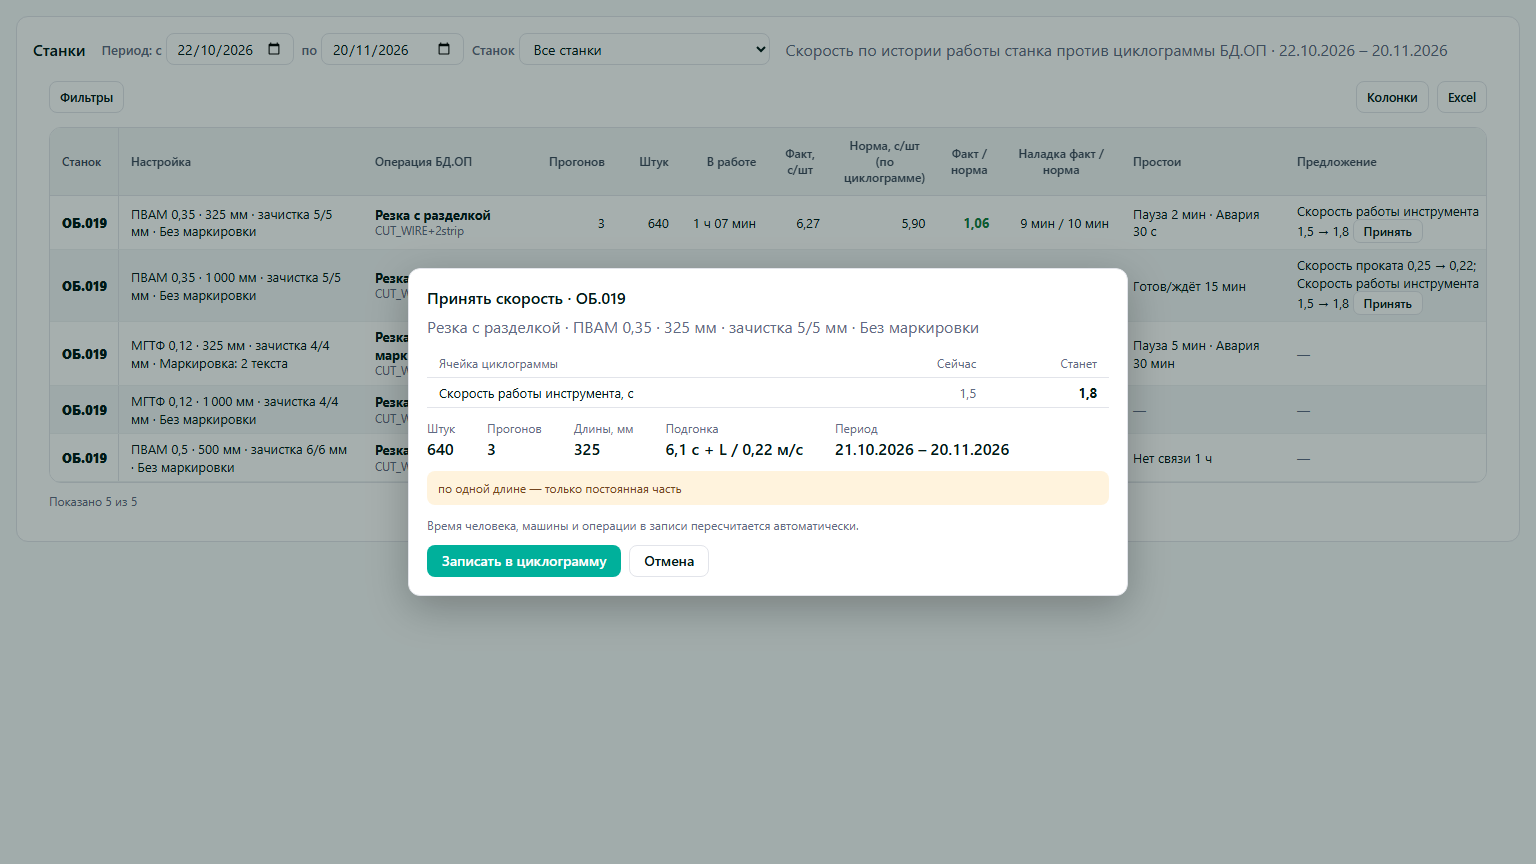
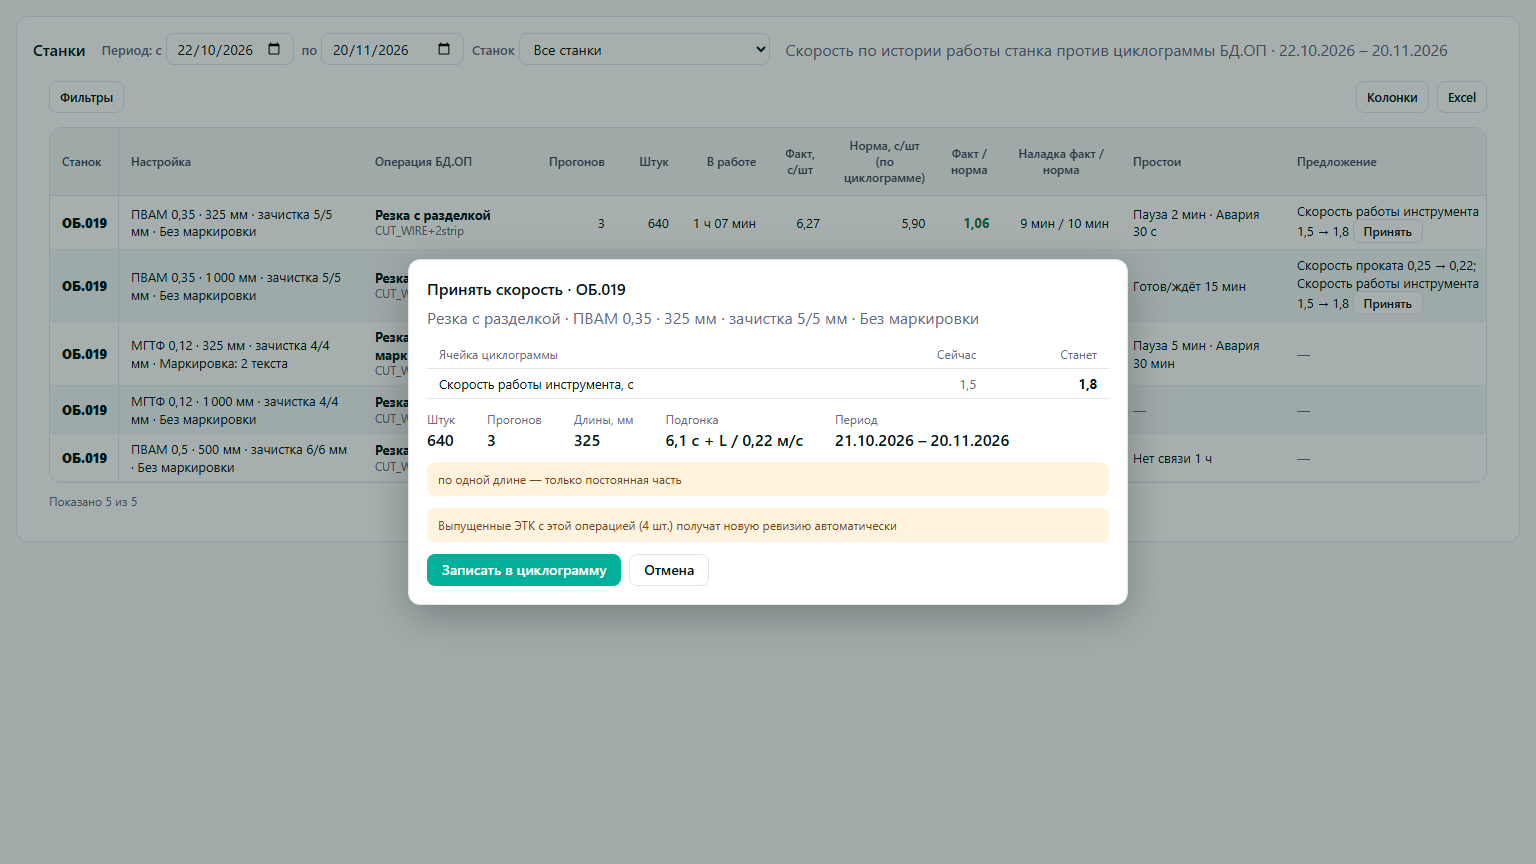
[production] История скорости станков (S3): правки по ревью

Changed region(s): [[0.25, 0.2812, 0.75, 0.7188], [0.6875, 0.4062, 0.7188, 0.4688]]

diff --git a/frontend/src/MachineSpeedReport.test.tsx b/frontend/src/MachineSpeedReport.test.tsx
@@ -41,6 +41,7 @@ const SUGGESTED = row({
       { field: "tool_time", label: "Скорость работы инструмента, с", old: "1.5", new: "1.8" }],
     evidence: { pieces: 640, runs: 3, lengths: ["325", "1000"], fit: "6,1 с + L / 0,22 м/с", since: "2026-10-21", until: "2026-11-20" },
     note: "по одной длине — только постоянная часть",
+    etk_note: "Выпущенные ЭТК: 3 шт. — ревизия будет создана автоматически",
   },
 });
 
@@ -84,8 +85,25 @@ it("shows the empty hint when there is no history", async () => {
   expect(await screen.findByText("Нет истории станков за период — она пишется, когда ОБ.019 на связи.")).toBeInTheDocument();
 });
 
+it("shows the fallback ЭТК note when the server sends none", async () => {
+  const bare = row({ suggestion: { ...SUGGESTED.suggestion!, etk_note: undefined } });
+  serve(() => json(report({ rows: [bare] })));
+  render(<MachineSpeedReport />);
+  const table = await screen.findByRole("region", { name: "Станки: скорость" });
+  fireEvent.click(within(table).getByRole("button", { name: "Принять" }));
+  expect(await screen.findByRole("dialog")).toHaveTextContent("Выпущенные ЭТК с этой операцией получат новую ревизию автоматически");
+});
+
+it("renders nothing on 403 instead of a red banner", async () => {
+  const calls = serve(() => json({ detail: "Нет доступа" }, 403));
+  const { container } = render(<MachineSpeedReport />);
+  await waitFor(() => expect(calls).toHaveLength(1));
+  await waitFor(() => expect(container).toBeEmptyDOMElement());
+  expect(screen.queryByRole("alert")).toBeNull();
+});
+
 it("shows an error banner when loading fails", async () => {
-  serve(() => json({ detail: "Нет доступа к станкам" }, 403));
+  serve(() => json({ detail: "Станки недоступны" }, 500));
   render(<MachineSpeedReport />);
   expect(await screen.findByRole("alert")).toBeInTheDocument();
 });
@@ -137,6 +155,7 @@ it("accepts a suggestion and reloads the report", async () => {
   expect(within(window).getByText("0,22")).toBeInTheDocument();
   expect(window).toHaveTextContent("6,1 с + L / 0,22 м/с");
   expect(window).toHaveTextContent("по одной длине — только постоянная часть");
+  expect(window).toHaveTextContent("Выпущенные ЭТК: 3 шт. — ревизия будет создана автоматически");
 
   fireEvent.click(within(window).getByRole("button", { name: "Записать в циклограмму" }));
 
@@ -153,14 +172,14 @@ it("accepts a suggestion and reloads the report", async () => {
 it("says the data changed on 409 and offers a refresh", async () => {
   let loads = 0;
   serve((path, init) => {
-    if (init?.method === "POST") return json({ detail: "stale" }, 409);
+    if (init?.method === "POST") return json({ detail: "Предложение изменилось — обновите отчёт" }, 409);
     loads += 1;
     return json(report());
   });
   const window = await openAccept();
   fireEvent.click(within(window).getByRole("button", { name: "Записать в циклограмму" }));
 
-  expect(await within(window).findByRole("alert")).toHaveTextContent("Данные изменились, обновите");
+  expect(await within(window).findByRole("alert")).toHaveTextContent("Предложение изменилось — обновите отчёт");
   fireEvent.click(within(window).getByRole("button", { name: "Обновить отчёт" }));
   await waitFor(() => expect(loads).toBe(2));
   expect(screen.queryByRole("dialog")).toBeNull();

diff --git a/frontend/src/MachineSpeedReport.tsx b/frontend/src/MachineSpeedReport.tsx
@@ -13,6 +13,7 @@ import "./normFact.css";
  *  против циклограммы БД.ОП, наладка, простои и предложение новой скорости. «Принять» пишет ячейки циклограммы. */
 
 const DAYS = 30;
+const ETK_NOTE_FALLBACK = "Выпущенные ЭТК с этой операцией получат новую ревизию автоматически";
 
 function isoDay(date: Date): string {
   return `${date.getFullYear()}-${String(date.getMonth() + 1).padStart(2, "0")}-${String(date.getDate()).padStart(2, "0")}`;
@@ -83,6 +84,7 @@ export function MachineSpeedReport() {
   const [machines, setMachines] = useState<MachineRef[]>([]);
   const [report, setReport] = useState<Report | null>(null);
   const [error, setError] = useState("");
+  const [forbidden, setForbidden] = useState(false);
   const [notice, setNotice] = useState("");
   const [reload, setReload] = useState(0);
   const [drill, setDrill] = useState<MachineSpeedRow | null>(null);
@@ -99,11 +101,16 @@ export function MachineSpeedReport() {
         setReport(loaded);
         if (!equipmentId) setMachines(loaded.machines);
       })
-      .catch((reason) => { if (live) setError(failureText(reason, "История станков не загружена")); });
+      .catch((reason) => {
+        if (!live) return;
+        if (reason instanceof ApiError && reason.status === 403) setForbidden(true);
+        else setError(failureText(reason, "История станков не загружена"));
+      });
     return () => { live = false; };
   }, [period.since, period.until, equipmentId, reload]);
 
   const label = `${formatDay(period.since)} – ${formatDay(period.until)}`;
+  if (forbidden) return null;  // нет права на «Станки» — раздела нет, без красной плашки
 
   const columns: DataColumn<MachineSpeedRow>[] = [
     { key: "machine", title: "Станок", width: 70, filter: true, value: (row) => row.inventory_number, render: (row) => <b>{row.inventory_number}</b> },
@@ -206,10 +213,8 @@ function AcceptWindow({ row, scope, close, refresh, done }: {
       await machineSpeedApi.accept(suggestion, scope);
       done(`Записано в циклограмму «${row.operation.name || row.operation.code}»: ${suggestion.cells.length} яч.`);
     } catch (reason) {
-      if (reason instanceof ApiError && reason.status === 409) {
-        setStale(true);
-        setError("Данные изменились, обновите отчёт и примите предложение заново.");
-      } else setError(failureText(reason, "Циклограмма не записана"));
+      if (reason instanceof ApiError && reason.status === 409) setStale(true);
+      setError(failureText(reason, "Циклограмма не записана"));
       setBusy(false);
     }
   }
@@ -234,7 +239,7 @@ function AcceptWindow({ row, scope, close, refresh, done }: {
         <div><dt>Период</dt><dd>{formatDay(evidence.since)} – {formatDay(evidence.until)}</dd></div>
       </dl>
       {suggestion.note && <div className="warning-inline">{suggestion.note}</div>}
-      <p className="nf-muted ms-hint">Время человека, машины и операции в записи пересчитается автоматически.</p>
+      <div className="warning-inline">{suggestion.etk_note || ETK_NOTE_FALLBACK}</div>
       {error && <div className="error-banner" role="alert">{error}</div>}
       <div className="ms-actions">
         {stale

diff --git a/frontend/src/ProductionNormFact.test.tsx b/frontend/src/ProductionNormFact.test.tsx
@@ -4,7 +4,7 @@ import { ProductionNormFact, hoursText, lastDays, pieceTime, ratioText } from ".
 import type { NormFactFact, NormFactReport } from "./normFactApi";
 
 // Раздел «Станки» проверяется в MachineSpeedReport.test.tsx; здесь он не должен ходить в сеть.
-vi.mock("./MachineSpeedReport", () => ({ MachineSpeedReport: () => null }));
+vi.mock("./MachineSpeedReport", () => ({ MachineSpeedReport: () => <section aria-label="Станки" /> }));
 
 function json(body: unknown, status = 200) {
   return new Response(JSON.stringify(body), { status, headers: { "Content-Type": "application/json" } });
@@ -95,6 +95,16 @@ it("shows two tables with colored ratios, few-data marker and suggestions with l
   // Период и легенда цветов видны.
   expect(screen.getByLabelText("Начало периода")).toHaveValue(period.from);
   expect(screen.getByRole("list", { name: "Цвета факт / норма" })).toHaveTextContent("мало данных — меньше 5 фактов");
+});
+
+it("has no stray text and mounts «Станки» only with the right", async () => {
+  serve(() => json(report()));
+  const { container, rerender } = render(<ProductionNormFact />);
+  await screen.findByRole("region", { name: "По операциям" });
+  expect(container.textContent).not.toMatch(/return/i);
+  expect(screen.queryByRole("region", { name: "Станки" })).toBeNull();
+  rerender(<ProductionNormFact machines />);
+  expect(screen.getByRole("region", { name: "Станки" })).toBeInTheDocument();
 });
 
 it("opens the individual facts of a template in a window", async () => {

diff --git a/frontend/src/ProductionNormFact.tsx b/frontend/src/ProductionNormFact.tsx
@@ -88,7 +88,8 @@ function href(params: Record<string, string>): string {
 
 type Drill = { kind: "template"; row: NormFactTemplate } | { kind: "operator"; row: NormFactOperator };
 
-export function ProductionNormFact() {
+/** `machines` — у пользователя есть право просмотра «Станков» (production или myops): тогда ниже раздел «Станки». */
+export function ProductionNormFact({ machines = false }: { machines?: boolean } = {}) {
   const [period, setPeriod] = useState(() => lastDays(60));
   const [report, setReport] = useState<NormFactReport | null>(null);
   const [error, setError] = useState("");
@@ -147,7 +148,7 @@ export function ProductionNormFact() {
   ];
 
   return <>
-  return <section className="panel nf-report" aria-label="Норма и факт">
+  <section className="panel nf-report" aria-label="Норма и факт">
     <div className="nf-head">
       <h2>Норма и факт</h2>
       <div className="nf-period" role="group" aria-label="Период">
@@ -186,7 +187,7 @@ export function ProductionNormFact() {
     </>}
     {drill && report && <FactsWindow drill={drill} facts={report.facts} slow={slow} fast={fast} label={label} close={() => setDrill(null)} />}
   </section>
-    <MachineSpeedReport />
+    {machines && <MachineSpeedReport />}
   </>;
 }
 

diff --git a/frontend/src/ProductionPage.tsx b/frontend/src/ProductionPage.tsx
@@ -203,7 +203,7 @@ export function ProductionPage({ principal, mine = false }: { principal: Princip
     {!mine && canOverview && !selectedTask && view === "today" && <ProductionToday principal={principal} openSkills={canEdit ? () => setShowSkills(true) : undefined} openWorkload={() => setView("workload")}
       openTask={(taskId, operationId) => { if (tasks.some((task) => task.id === taskId)) { setSelectedTaskId(taskId); setSelectedOperationId(operationId ?? ""); } }} />}
     {!mine && canOverview && !selectedTask && view === "workload" && <ShopWorkloadView />}
-    {!mine && canOverview && !selectedTask && view === "normfact" && <ProductionNormFact />}
+    {!mine && canOverview && !selectedTask && view === "normfact" && <ProductionNormFact machines={canSee(principal, "production") || canSee(principal, "myops")} />}
     {!mine && canOverview && !selectedTask && view === "cutqueue" && canSee(principal, "myops") && <CuttingQueue readOnly />}
     {!mine && canOverview && SHOW_TRACEABILITY && <TraceabilitySearch />}
     {/* «Коробки на подтверждение» убраны (владелец, 13.10.2026: «ОТК подтверждает и все»): сданная коробка сразу идёт

diff --git a/frontend/src/normFact.css b/frontend/src/normFact.css
@@ -37,5 +37,4 @@
 .ms-cells th, .ms-cells td { padding: 6px 12px; text-align: left; border-bottom: 1px solid var(--border); }
 .ms-cells th { font-size: 12px; font-weight: 400; color: var(--muted-foreground); }
 .ms-cells .num { text-align: right; font-variant-numeric: tabular-nums; }
-.ms-hint { margin: 0; font-size: 12px; }
 .ms-actions { display: flex; gap: 8px; }

diff --git a/frontend/src/machineSpeedApi.ts b/frontend/src/machineSpeedApi.ts
@@ -33,6 +33,8 @@ export interface MachineSuggestion {
   cells: SuggestionCell[];
   evidence: SuggestionEvidence;
   note: string | null;
+  /** Что будет с выпущенными ЭТК после записи (сервер); нет — показываем общий текст. */
+  etk_note?: string;
 }
 
 export interface MachineSpeedRow {
